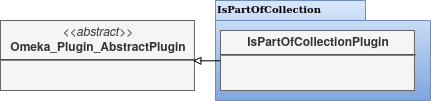
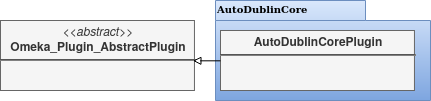
[DOCS] Anexos: Especificación de diseño - Minor changes #70

Changed region(s): [[0.5731, 0.3564, 0.9049, 0.4752], [0.4826, 0.0594, 0.7541, 0.1485]]

diff --git a/docs/sphinx/source/anexos/C_Diseño.rst b/docs/sphinx/source/anexos/C_Diseño.rst
@@ -25,7 +25,7 @@ Para la gestión de datos, la aplicación hace uso de las siguientes entidades:
 - **Localización rectangular** (*BoxLocation*): representa la localización rectangular de un ítem.
 
 .. figure:: ../_static/images/e-r-uml.png
-   :name: users
+   :name: e-r-uml
    :scale: 90%
    :align: center
 
@@ -62,7 +62,7 @@ En el siguiente diagrama se muestra el comportamiento de la aplicación ante una
    :scale: 90%
    :align: center
 
-   Diagrama que muestra la relación entre el Modelo, Vista y Controlador del patrón MVC.
+   Diagrama que muestra el comportamiento de la aplicación ante una petición HTTP.
 
 1. El usuario entra a la aplicación a través de su navegador web con la dirección de la aplicación (e.g. *http://miaplicación.es*).
 2. El servidor web con ayuda de la extensión PHP ejecuta el script de entrada (*index.php*).
@@ -147,7 +147,7 @@ Son un total de 21 complementos, de los cuales 6 han sido creados específicamen
 - *omeka.plugins.HideElements*: permite ocultar elementos de los esquemas de metadatos (*ElementSet*) existentes en la plataforma.
 - *omeka.plugins.TagsManager*: añade funcionalidades relacionadas con las etiquetas (*tags*).
 - *omeka.plugins.HistoryLog*: permite llevar un registro detallado de todas las acciones (eliminar, editar, crear, etc.) ejecutadas en la plataforma.
-- *omeka.plugins.IsPartOfCollection*: permite automatizar el relleno del elemento *Is Part Of* del esquema *Dublin Core* al guardar un ítem.
+- *omeka.plugins.AutoDublinCore*: permite automatizar el relleno de algunos elementos del esquema *Dublin Core*.
 - *omeka.plugins.OaipmhHarvester*: permite recolectar metadatos de otros repositorios web y gestionar las recolecciones ejecutadas.
 - *omeka.plugins.OaiPmhRepository*: permite que otros repositorios web recolecten metadatos de nuestra aplicación.
 - *omeka.plugins.SimplePages*: permite añadir páginas simples como la de "About" al área pública.
@@ -255,7 +255,7 @@ Además, se utilizan dos paquetes nuevos:
    :scale: 100%
    :align: center
 
-   Diagrama de clases del complemento IsPartOfCollection
+   Diagrama de clases del complemento AutoDublinCore
 
 .. figure:: ../_static/images/pck-10.png
    :name: da-pck-10
@@ -273,7 +273,7 @@ En el diagrama de secuencia que se expone a continuación, se describe el funcio
 
 .. figure:: ../_static/images/dp-seq.png
    :name: dp-seq
-   :scale: 80%
+   :scale: 60%
    :align: center
 
    Diagrama de secuencia para un caso general.
